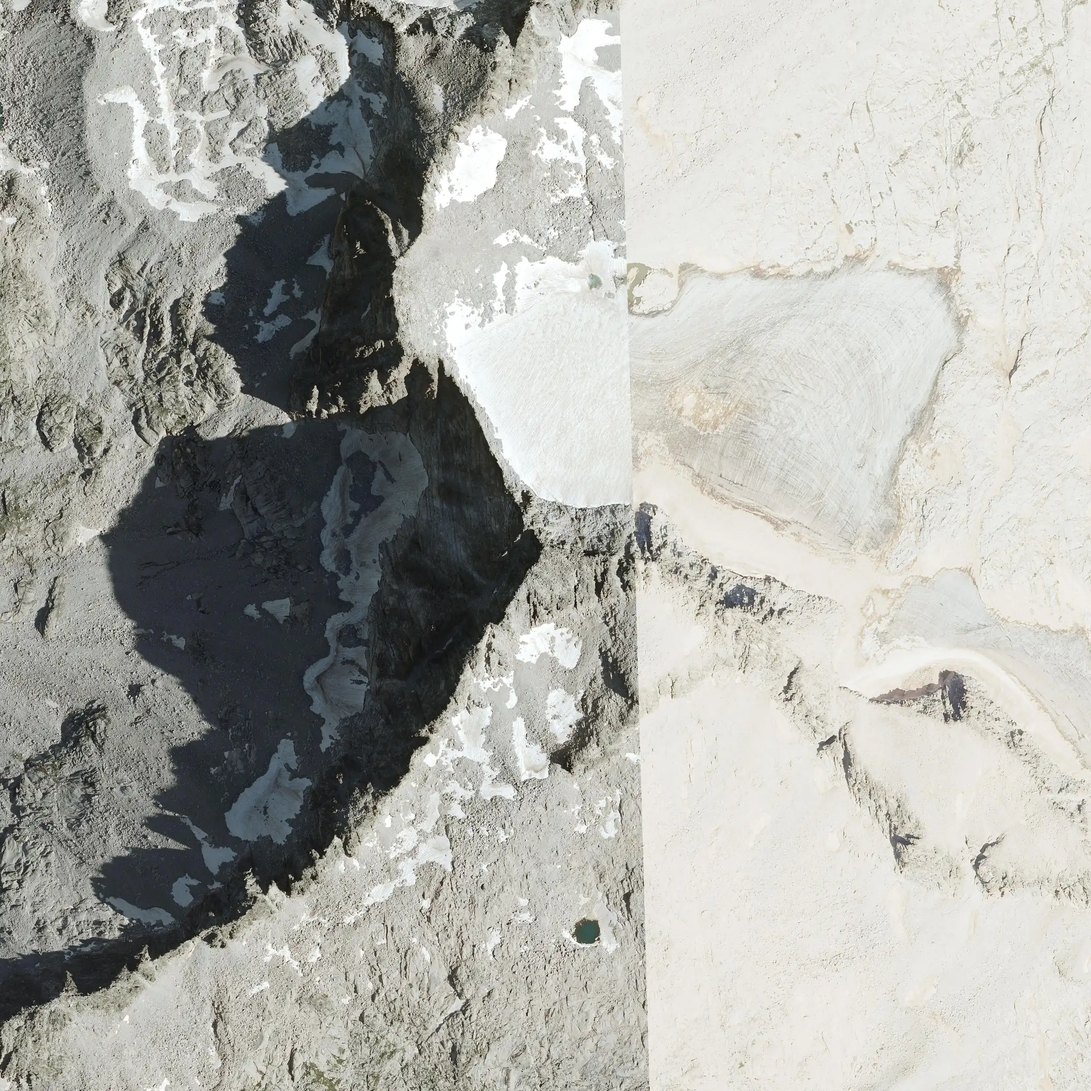
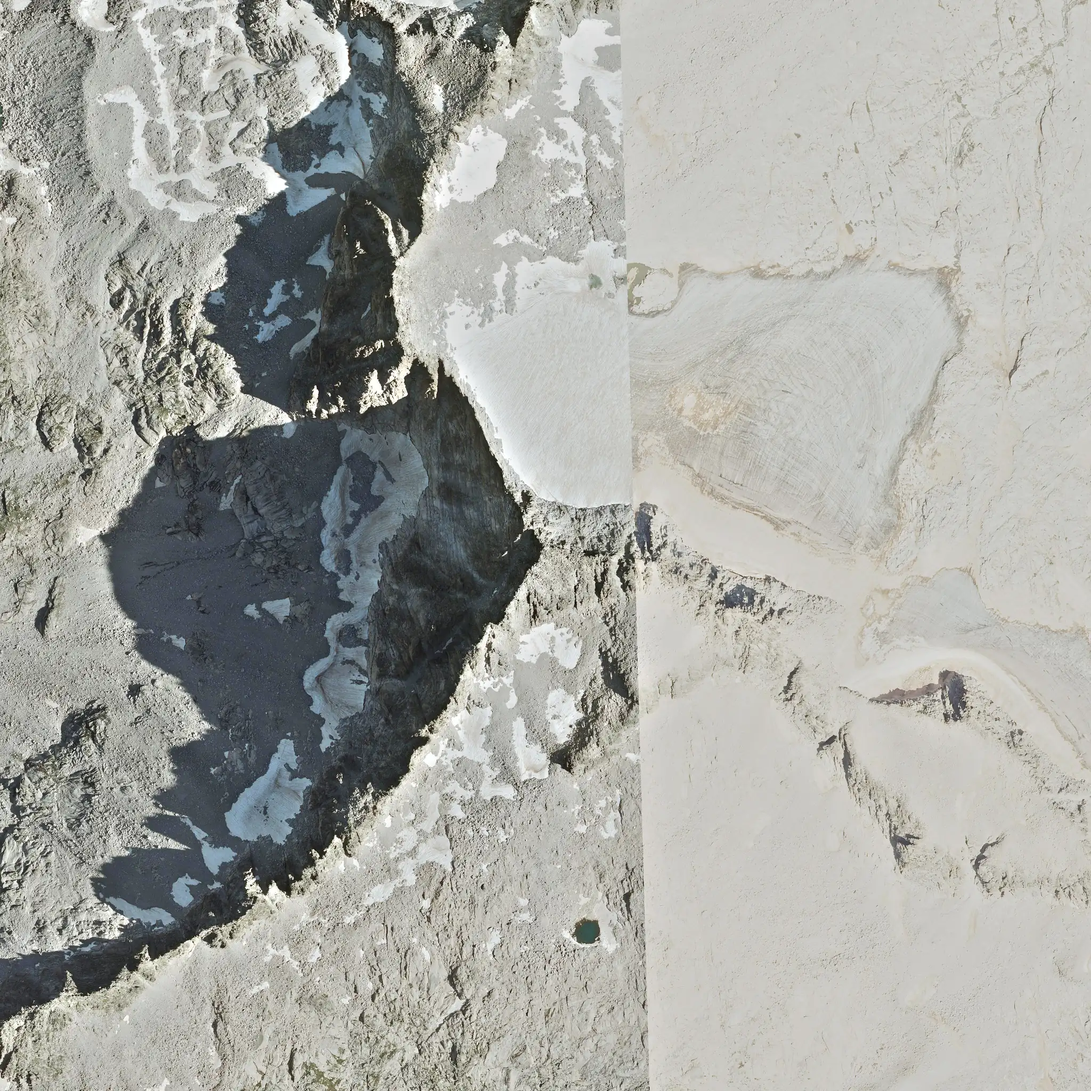
Ortofoto: sombras aplanadas, grano triplanar en laderas, mas nitidez; hito Cima en el punto de la cumbre; 15 ortofotos regeneradas
Claude-Session: https://claude.ai/code/session_012dWCLNNe2bGWrPUReqwHH1

diff --git a/js/terrain.js b/js/terrain.js
@@ -30,17 +30,17 @@ if (distance(vWPos, cameraPosition) < 15000.) {
   float fa = 1. - smoothstep(2500., 15000., dist), fc = 1. - smoothstep(250., 3500., dist);
   const vec3 LW = vec3(.30, .59, .11);
   vec3 c = diffuseColor.rgb;
-  float oq = 1.; float vR = vRoca * (1. - .7 * step(.5, uOrto));   // con ortofoto la roca procedural de la cima pesa menos (si no, su borde dibuja un arco)   // 1 sin ortofoto; menos con ella (ya trae su propio detalle: menos nitidez y menos grano procedural)
+  float oq = 1., ofk = 0.; float vR = vRoca * (1. - .7 * step(.5, uOrto));   // con ortofoto la roca procedural de la cima pesa menos (si no, su borde dibuja un arco)   // 1 sin ortofoto; menos con ella (ya trae su propio detalle: menos nitidez y menos grano procedural)
   if (uOrto > .5) {
     vec3 og = max((c - uOA) * uOB + uOC, 0.);   // color de la ortofoto llevado al del satélite de alrededor (media y desviación por canal, tools/igualar_orto.py)
     float edge = min(min(vWPos.x - uPb.x, uPb.z - vWPos.x), min(vWPos.z - uPb.y, uPb.w - vWPos.z));
-    float ofk = smoothstep(0., (uPb.z - uPb.x) * .12, edge);
+    ofk = smoothstep(0., (uPb.z - uPb.x) * .12, edge);
     c = mix(texture2D(uSat, vCUv).rgb, og, ofk); oq = 1. - .75 * ofk;
   }
 #ifdef USE_MAP
   // nitidez: máscara de enfoque sobre la imagen de satélite (la fuente tiene 10 m por píxel; esto recupera contraste de borde sin inventar datos)
   { vec2 ts = 1. / vec2(textureSize(map, 0)); vec3 bl = (texture2D(map, vMapUv + vec2(ts.x, 0.)).rgb + texture2D(map, vMapUv - vec2(ts.x, 0.)).rgb + texture2D(map, vMapUv + vec2(0., ts.y)).rgb + texture2D(map, vMapUv - vec2(0., ts.y)).rgb) * .25;
-    c = max(c + (c - bl) * (.5 + 1.3 * fc) * (1. - sl * .5) * (.2 + .8 * (oq - .4) / .6), 0.); }
+    c = max(c + (c - bl) * (.5 + 1.3 * fc) * (1. - sl * .5) * (1. - .4 * ofk), 0.); }
 #endif
   float lm = dot(c, LW);
   float steep0 = smoothstep(.34, .62, sl);
@@ -82,6 +82,10 @@ if (distance(vWPos, cameraPosition) < 15000.) {
   c = mix(c, c * vec3(1.10, 1.02, .80), (grass + shrub) * smoothstep(.45, .8, n1) * .35 * fa);
   c *= 1. + (vn(vWPos * .21) - .5) * .38 * tree * fa;
   c *= 1. + (n3 - .5) * .10 * fc * (1. - nieve * .6) * oq;   // granulado cercano
+  if (uOrto > .5) {   // la ortofoto es cenital y en las laderas se estira: grano de roca triplanar (sin estiramiento) donde la pendiente es media o alta
+    float stp = smoothstep(.28, .62, sl) * ofk * fc * (1. - nieve * .7);
+    c *= 1. + ((vn(vWPos * 1.1) - .5) * .50 + (vn(vWPos * 3.7 + 5.) - .5) * .38 + (fbm(vWPos * .26) - .5) * .30) * stp;
+  }
   // nieve: sombras azuladas, ondulaciones de viento y grano brillante de cerca (solo donde el satélite ya marca nieve)
   if (nieve > .02) {
     float lmN = dot(c, LW);

diff --git a/js/main.js b/js/main.js
@@ -1,7 +1,7 @@
 import * as THREE from 'three';
 import { OrbitControls } from 'three/addons/OrbitControls.js';
 import { makeGeo } from './geo.js';
-import { Terrain } from './terrain.js?v=18';
+import { Terrain } from './terrain.js?v=19';
 import { crearVegetacion } from './vegetacion.js?v=8';
 import { crearCumbres } from './cumbres.js?v=30';
 import { crearBanderines, leerHechos, guardarHechos } from './banderines.js?v=4';
@@ -404,6 +404,7 @@ async function boot() {
   const hitos = [];
   const kmTexto = (o, id) => { const R = rutasDe(id)[0], ps = R ? R.pasos(o.x, o.z) : []; return ps.length ? ` · km ${ps.map((c) => km(c.dist)).join(' y ')} del recorrido` : ''; };
   // los hitos de un pico se crean al abrirlo (cuando ya hay alturas finas bajo ellos)
+  const normNombre = (s) => s.normalize('NFD').replace(/[\u0300-\u036f]/g, '').toLowerCase().replace(/\(.*?\)/g, '').replace(/\b(cima|del|de|la|las|los|el|pico|pic|punta|tuca|gran|pequeno)\b/g, '').replace(/[^a-z0-9]/g, '');
   function crearHitosDe(picoId) {
     for (const h of hitosDatos) {
       const picos = h.picos ?? [h.pico ?? 'balaitus'];
@@ -420,7 +421,10 @@ async function boot() {
         const abrir = !el.classList.contains('is-open');
         closeHitos(); if (abrir) { el.classList.add('is-open'); e.currentTarget.setAttribute('aria-expanded', 'true'); if (el.classList.contains('con-foto')) hitoTimer = setTimeout(closeHitos, 15000); }
       });
-      hitos.push({ h, el, picos, kms: {}, tipoTxt: h.inicio ? 'Inicio del recorrido' : (TIPO_HITO[h.tipo] ?? ''), last: null, x: q.x, y: geo.heightAt(q.x, q.z) + 12, z: q.z });
+      // el hito «Cima» que lleva el nombre de la cumbre se coloca en el punto de la cumbre (si no, el relieve fino los separa y salen dos marcadores y dos nombres)
+      let hx = q.x, hz = q.z, hy = geo.heightAt(q.x, q.z) + 12;
+      if (h.tipo === 'cima') { const nh = normNombre(h.nombre), pc = peaks.find((p) => picos.includes(p.id) && p.w && normNombre(p.nombre) === nh && Math.hypot(p.q.x - q.x, p.q.z - q.z) < 250); if (pc) { hx = pc.w.x; hz = pc.w.z; hy = pc.w.y + 12; } }
+      hitos.push({ h, el, picos, kms: {}, tipoTxt: h.inicio ? 'Inicio del recorrido' : (TIPO_HITO[h.tipo] ?? ''), last: null, x: hx, y: hy, z: hz });
     }
   }
   function figCima(p) {

diff --git a/index.html b/index.html
@@ -3,7 +3,7 @@
 <head>
   <meta charset="utf-8">
   <script>/* versión publicada: si el navegador muestra una copia vieja de esta página, recarga sola con la nueva (version.json no se guarda en caché) */
-  window.WEB_V = 221;
+  window.WEB_V = 222;
   fetch('version.json?t=' + Date.now(), { cache: 'no-store' }).then((r) => r.json()).then((j) => {
     if (!(j.v > window.WEB_V)) return;
     const u = new URL(location.href); if (u.searchParams.get('r') === String(j.v)) return;   // ya se pidió esa versión: no repetir
@@ -120,7 +120,7 @@
 
   <script data-goatcounter="https://skyllion.goatcounter.com/count" async src="https://gc.zgo.at/count.js"></script>
   <script>window.DATOS_V = 178;</script>
-  <script type="module" src="js/main.js?v=221"></script>
+  <script type="module" src="js/main.js?v=222"></script>
   <script defer src="js/cine.js?v=6"></script>
 </body>
 </html>

diff --git a/tools/build_orto.py b/tools/build_orto.py
@@ -11,6 +11,15 @@ m = json.load(open(D('data', 'terrain', 'meta.json'))); idx_path = D('data', 'te
 latC = m['lat0'] - ((m['nrows'] - 1) * m['step']) / 2; mLat = 111132; mLon = 111320 * math.cos(math.radians(latC))
 W = (m['ncols'] - 1) * m['step'] * mLon; Dd = (m['nrows'] - 1) * m['step'] * mLat
 fx = lambda x: m['lon0'] + (x + W / 2) / mLon; fz = lambda z: m['lat0'] - (z + Dd / 2) / mLat
+def aplana_sombras(im, fuerza=0.5, sigma=80):
+    """Las sombras de la ortofoto (propias de la hora del vuelo) chocan con la luz de la web: se divide parcialmente por el brillo de baja frecuencia."""
+    import numpy as np
+    from PIL import ImageFilter
+    a = np.asarray(im, np.float32) / 255; L = a.mean(2)
+    pq = Image.fromarray((L * 255).astype(np.uint8)).resize((1024, 1024), Image.BILINEAR).filter(ImageFilter.GaussianBlur(sigma / 4))
+    low = np.asarray(pq.resize(im.size, Image.BICUBIC), np.float32) / 255
+    f = np.clip((low.mean() / np.maximum(low, 0.02)) ** fuerza, 0.7, 1.6)
+    return Image.fromarray((np.clip(a * f[..., None], 0, 1) * 255).astype(np.uint8))
 for pid in sys.argv[1:]:
     d = idx[pid]; x0, z0 = d['x0'], d['z0']; x1 = x0 + (d['n'] - 1) * d['paso']; z1 = z0 + (d['n'] - 1) * d['paso']
     bb = (fx(x0), fz(z1), fx(x1), fz(z0))
@@ -30,6 +39,7 @@ for pid in sys.argv[1:]:
             im.paste(Image.open(tmp).convert('RGB'), (a * 2048, c * 2048))
         if not ok: break
     if not ok: print(pid, 'sin imagen'); continue
+    im = aplana_sombras(im)
     im.save(D('data', 'terrain', 'cumbres', f'{pid}-orto.webp'), quality=60, method=6)
     im.resize((2048, 2048), Image.LANCZOS).save(D('data', 'terrain', 'cumbres', f'{pid}-orto-m.webp'), quality=55, method=6)
     d['orto'] = f'{pid}-orto.webp'; d['ortoM'] = f'{pid}-orto-m.webp'
